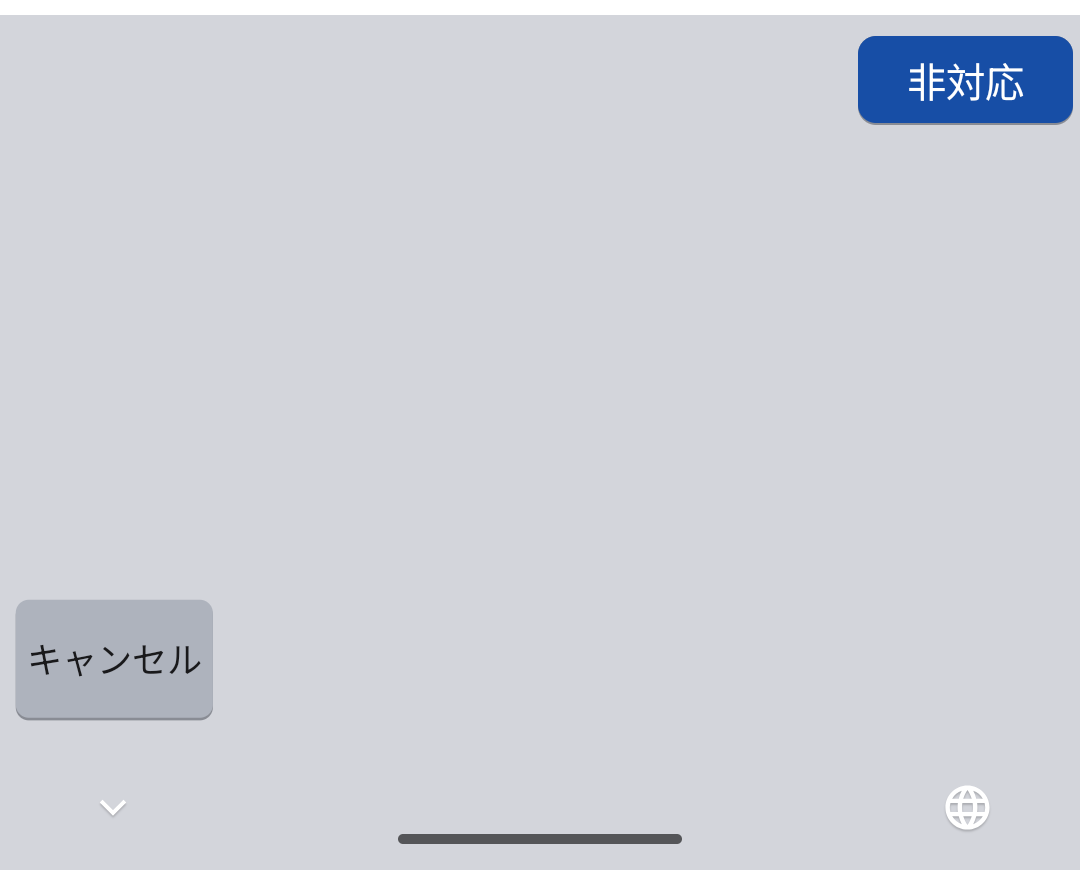
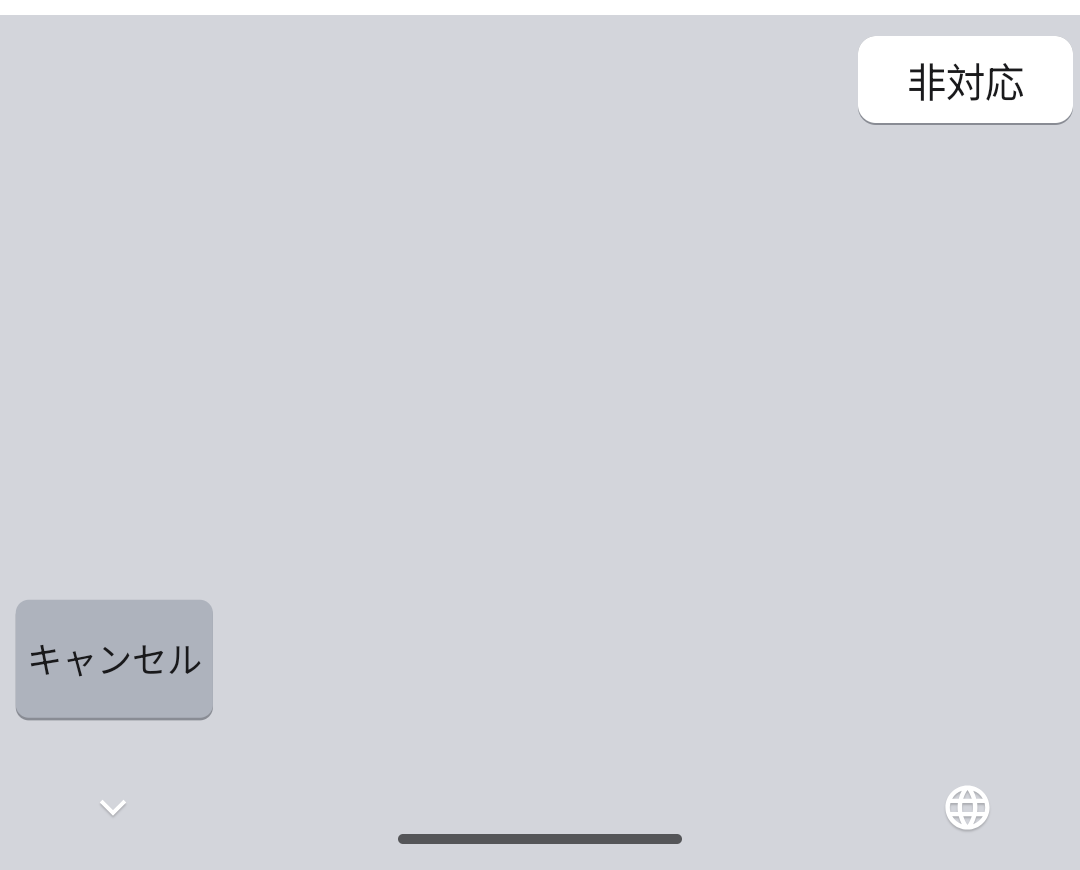
[260912-002431-align-native-settings-and-voice-ui] fix(voice): use normal face for status actions

Changed region(s): [[0.7944, 0.031, 1.0, 0.1552]]

diff --git a/app/src/test/java/com/masuidrive/gestureime/ui/CandidateStripViewTest.kt b/app/src/test/java/com/masuidrive/gestureime/ui/CandidateStripViewTest.kt
@@ -131,17 +131,29 @@ class CandidateStripViewTest {
             assertEquals(82, control.width)
             assertEquals(34, control.height)
             assertEquals(7f, control.faceLayer().cornerRadius, .1f)
-            assertEquals(Color.rgb(23, 78, 166), control.faceColor())
+            assertEquals(Color.WHITE, control.faceColor())
             assertEquals(Color.rgb(137, 140, 148), control.shadowLayer().color!!.defaultColor)
+            assertEquals(Color.rgb(25, 25, 27), control.currentTextColor)
+            assertTrue(control.isEnabled)
+            assertTrue(control.isClickable)
+            assertTrue(control.isFocusable)
         }
     }
 
-    @Test @Config(qualifiers = "night") fun voiceControlUsesDarkCandidateFaceAndShadow() {
-        val view = view(); view.setVoiceState(VoiceUiSnapshot(14, VoiceUiState.PermissionRequired))
-        val control = view.textView("許可")
-        assertEquals(Color.rgb(168, 206, 255), control.faceColor())
-        assertEquals(Color.rgb(20, 20, 22), control.shadowLayer().color!!.defaultColor)
-        assertEquals(Color.rgb(16, 40, 68), control.currentTextColor)
+    @Test @Config(qualifiers = "night") fun permissionAndUnavailableUseDarkNormalCandidateFace() {
+        val view = view()
+        listOf(
+            VoiceUiState.PermissionRequired to "許可",
+            VoiceUiState.Unavailable("利用不可") to "非対応",
+        ).forEach { (state, text) ->
+            view.setVoiceState(VoiceUiSnapshot(14, state))
+            val control = view.textView(text)
+            assertEquals(Color.rgb(65, 65, 68), control.faceColor())
+            assertEquals(Color.rgb(20, 20, 22), control.shadowLayer().color!!.defaultColor)
+            assertEquals(Color.rgb(244, 244, 246), control.currentTextColor)
+            assertTrue(control.isClickable)
+            assertTrue(control.isFocusable)
+        }
     }
 
     @Test fun unavailableExplainsReasonAndPreservesCandidateInput() {

diff --git a/app/src/main/java/com/masuidrive/gestureime/ui/CandidateStripView.kt b/app/src/main/java/com/masuidrive/gestureime/ui/CandidateStripView.kt
@@ -138,7 +138,7 @@ class CandidateStripView @JvmOverloads constructor(context: Context, attrs: Attr
     }
 
     private fun addVoiceButton(text: String, description: String, action: VoiceUiAction?, sessionToken: Long = voiceSnapshot.sessionToken) {
-        voiceControls.addView(label(text, action != null).apply {
+        voiceControls.addView(label(text, false).apply {
             contentDescription = description
             isEnabled = action != null; isClickable = action != null; isFocusable = true
             if (action != null) setOnClickListener { onVoiceAction?.invoke(VoiceUiEvent(sessionToken, action)) }

diff --git a/technical-reference.md b/technical-reference.md
@@ -41,7 +41,7 @@ Based on https://github.com/masuidrive/pdh/blob/15e6289/codex/templates/technica
 12. 左下レイヤーキーは全レイヤーで左=音声入力、上=日本語、右=QWERTY、下=テンキーとし、中央tapは各キーの表示先へ切り替える。記号レイヤーは`#!`キーの中央tapから開く。候補欄の背景は候補の有無によらずkeyboard背景に固定し、選択候補のaccentは維持する。（2026-09-11 / 260911-022705, 260911-055701-assign-layer-left-swipe-to-voice）
 13. 英数字候補は既定OFFかつprivate欄では無効とする。ON時はASCII英数字を最大64文字のcompositionとして保持し、英字だけのprefixを固定端末内辞書へ照会する。候補tapは描画token、候補source、editor session、生成世代、prefixが一致した時だけ置換確定する。Space/Enterおよびlayer・modifier・cursor・paste・voice・IME hideはraw確定境界とし、editor切替時は旧bufferを新editorへ渡さない。（2026-09-11 / 260911-003916）
 14. QWERTY文字キーの下swipeでは補助labelのvisual centerを実key高の中央へ90msで移動し、狭幅/広幅とも固定anchorから中央へ到達させる。QWERTY以外とEnter/Pasteの下swipeは従来の13dp transitionを維持する。（2026-09-11 / 260911-055701-center-qwerty-down-swipe-label; 2026-09-12 / 260911-175407）
-15. 日本語変換候補と英字補完候補は共通faceを使い、高さ34dp、最小幅82dp、左右padding 14dp、gap 5dp、radius 7dp、1dp下影、HTML 15px相当の固定15dp文字で描画する。候補欄全高50dpは上8dp・左右3dp・下8dpを含み、Light/Darkの通常/選択色はHTML key/selected paletteへ一致させる。（2026-09-11 / 260911-062719-align-candidate-ui-with-html）
+15. 日本語変換候補と英字補完候補は共通faceを使い、高さ34dp、最小幅82dp、左右padding 14dp、gap 5dp、radius 7dp、1dp下影、HTML 15px相当の固定15dp文字で描画する。候補欄全高50dpは上8dp・左右3dp・下8dpを含み、Light/Darkの通常/選択色はHTML key/selected paletteへ一致させる。音声の許可・非対応controlは操作可能性を維持しつつ通常candidate faceを使い、候補選択中のaccentを表示しない。（2026-09-11 / 260911-062719-align-candidate-ui-with-html; 2026-09-12 / 260912-002431-align-native-settings-and-voice-ui）
 16. QWERTY、記号、日本語、テンキー、カーソルの全4行layoutは縦gap 10dpとrow pitchを共有し、外画面は55dp pitch/45dp face・全高228dp、内画面は62dp pitch/52dp face・全高256dpとする。日本語の単一配列・Dual Flick・縦長Enterにも同じ縦geometryを適用し、横gap 6dpは維持する。（2026-09-11 / 260911-063048-unify-four-row-keyboard-heights, 260911-072658-unify-all-four-row-layout-heights）
 17. IME入力Viewは候補欄を固定50dp、`KeyboardView`をintrinsic `WRAP_CONTENT`として縦LinearLayoutへ積む。`KeyboardView`は入力先切替中に親から一時的な過大`EXACTLY`高を受けても、現在幅とbottom insetから算出した固定4行高を採用し、`onStartInputView`で再適用する。`VOICE` modeも同じ4行高を使い、候補内容や音声状態の変更でIME root高を変えない。（2026-09-11 / 260911-063912-fix-intermittent-keyboard-vertical-offset; 2026-09-12 / 260911-160113, 260912-002431-stabilize-ime-height-after-app-switch）
 18. QWERTY＋Symbolsは空白から`~`までの印字可能ASCII 95文字を網羅する。SymbolsではESCをtapのまま維持し、重複していた`"`位置をバッククォート、`/`位置を`-`の直接tapへ割り当てる。`"`と`/`はQWERTYの`l`下・`b`下へ残し、Symbolsの文字keyに方向gestureは設けない。（2026-09-11 / 260911-072234-complete-qwerty-symbol-ascii）

diff --git a/tickets/260912-002431-align-native-settings-and-voice-ui/note.md b/tickets/260912-002431-align-native-settings-and-voice-ui/note.md
@@ -64,6 +64,11 @@
 - ローカル`site/manual.html`を390px幅で確認し、scrollWidth=innerWidth、画像読み込み欠落なし、v0.10.0表示を確認した。
 - `aac16f4`: Setupのsurface・視覚階層と意味あるRobolectric回帰。
 - `4a27e50`: v0.10版番号、SetupのLight/Dark画像、manual、technical reference、検証記録。
+- `17db40f`: 現行VOICE Unavailable画面へmanual画像を更新。
+- 独立reviewで、音声の許可・非対応controlがclick actionの有無を選択状態へ流用し、青いselected faceを描画していたMajorを確認した。選択状態と操作可能性を分離し、通常candidate faceのままclick/focus/actionを維持した。
+- 反例として通常の選択候補は従来どおりselected faceを使う既存`candidateGeometryMatchesHtmlReference`を修正前後で維持した。Permission/UnavailableはLight/Darkそれぞれ通常face色・文字色・shadowとclick/focusを回帰testへ固定した。
+- 修正APKをAPI 36.1 emulatorへinstallし、Lightでは白い通常face、Darkでは`#414144`の通常faceで「非対応」を表示することを原寸確認した。Light画像を`docs/screenshots/v0.10/voice-layer.png`とsite assetへ上書きした。
+- 修正後のfocused `CandidateStripViewTest`とAPK assemble、`scripts/test-all.sh --parallel`のfast-checks・Android unit/lint/APK buildがすべて成功した。AVDのnight modeは確認後Lightへ復元した。
 
 ## PDH-review. 品質検証結果
 <!-- PDH-review-1 / PDH-review-2 のように attempt ごとに記録する。
@@ -84,7 +89,7 @@
 <!-- この ticket の差分に因果がある追記・上書きの内容、または「該当なし」＋理由を 1 行以上必ず書く。
      他 ticket 由来の記述を消したくなったら、消さずにここへ削除候補として記録する。 -->
 
-- decision 26へSetupの4セクション、48dp操作領域、Light/Dark追従、BuildConfig由来versionを追記した。
+- decision 15へ音声Permission/Unavailable controlの通常candidate faceを、decision 26へSetupの4セクション、48dp操作領域、Light/Dark追従、BuildConfig由来versionを追記した。
 
 ## PDH-human-review. 人間レビュー
 <!-- agent は PDH-verify まで自動で進め、この stage で人間レビューを依頼する。

diff --git a/progress.md b/progress.md
@@ -156,3 +156,4 @@
 [2026/09/12 10:02] 変換中Enterの上フリックでひらがな、左フリックで全角カタカナを1回で確定する実装を独立レビューし、全テスト2/2 PASSを確認しました。次の設定画面・音声レイヤーticketは現行nativeとHTML/CSSを事前比較し、設定の視覚階層と古いマニュアル画像を主な修正対象に確定しました。
 [2026/09/12 10:10] v0.10設定画面を4つの角丸カードへ整理し、Light/Darkのsurface、細い赤accent、48dp操作領域、BuildConfig由来version表示をAPI36.1とRobolectricで確認。最新Light/Dark画像をmanualへ反映し、fast-check・unit・lint・APK buildがPASS。音声面は既存native契約を維持し、実発話partial/finalは日本語モデルのある実機確認待ちとして記録。
 [2026/09/12 10:16] API 36.1の現行APKでQWERTY左下を左フリックし、音声候補欄の「非対応」、固定4行面、通常キー形状の左下「キャンセル」を同時確認してv0.10画像へ更新。manualの旧v0.9音声画像を置換し、操作モックのpartial/final確認導線を追記。
+[2026/09/12 10:20] 音声Permission/Unavailable controlが選択候補の青faceを誤用していたreview Majorを修正。操作可能性を保った通常candidate faceへ分離し、Light/Darkの色・shadow・click/focusをRobolectricで固定、API 36.1のLight/Dark実画面を確認してv0.10音声画像を再撮影した。
